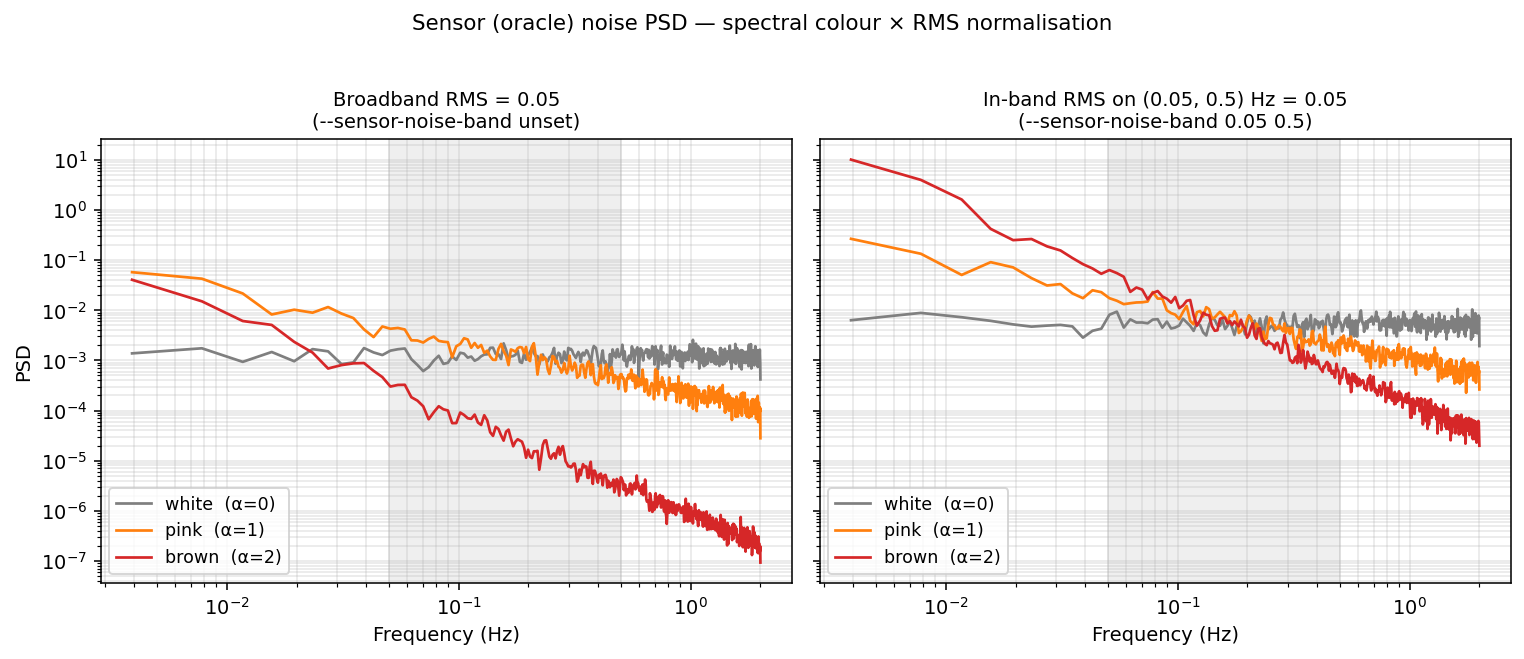
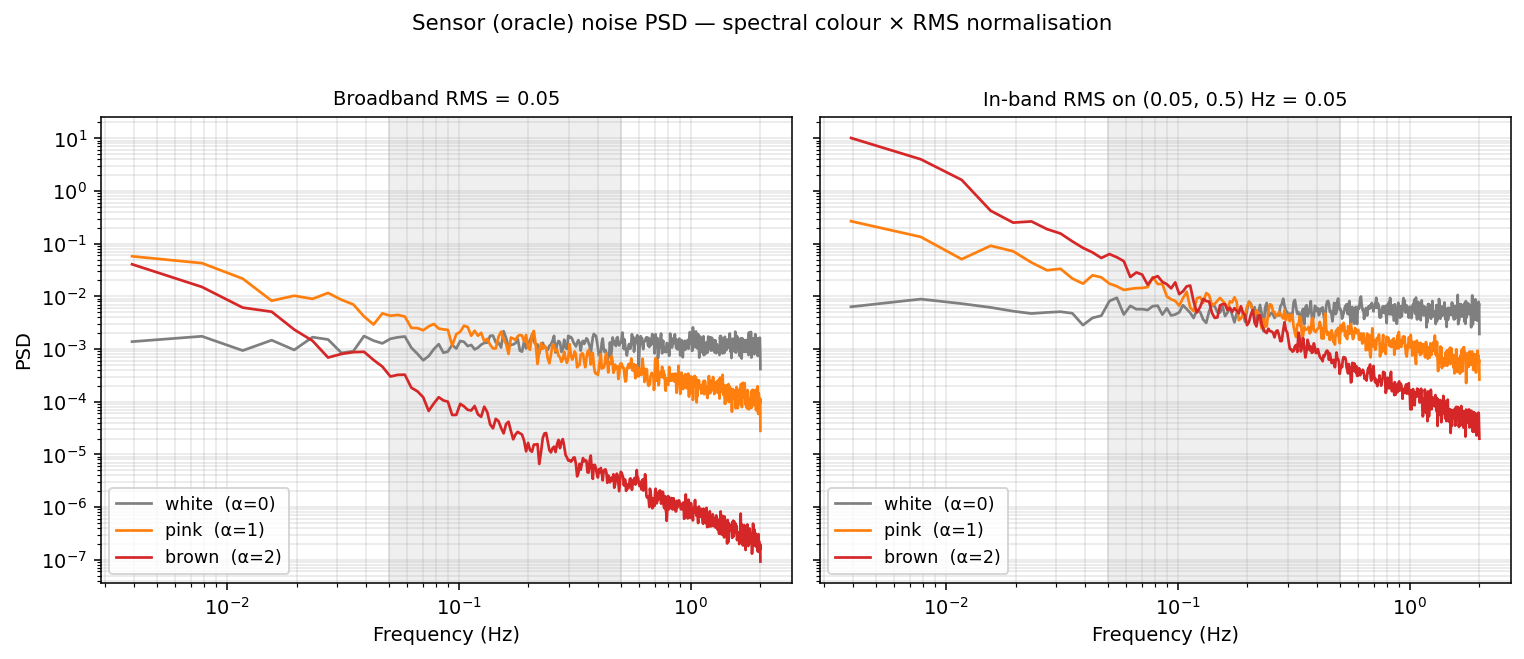
Drop CLI flag annotation from sensor-colours plot titles
The subtitles in toy_setup_sensor_colors.png used to spell out the
--sensor-noise-band CLI flag to encourage the reader to reproduce the
two panels.  That is already covered in the README usage section, so
remove the annotation and keep just the physical meaning of each panel
(broadband RMS vs in-band RMS on [0.05, 0.5] Hz).

https://claude.ai/code/session_01JziWxiJ7rtnjMxUT9iLEQN

diff --git a/scripts/plot_toy_setup.py b/scripts/plot_toy_setup.py
@@ -178,8 +178,8 @@ def plot_sensor_colors():
 
     for ax, title in zip(
         axes,
-        [f"Broadband RMS = {sigma}\n(--sensor-noise-band unset)",
-         f"In-band RMS on {band} Hz = {sigma}\n(--sensor-noise-band 0.05 0.5)"],
+        [f"Broadband RMS = {sigma}",
+         f"In-band RMS on {band} Hz = {sigma}"],
     ):
         ax.axvspan(*band, color="grey", alpha=0.12)
         ax.set_xlabel("Frequency (Hz)")
